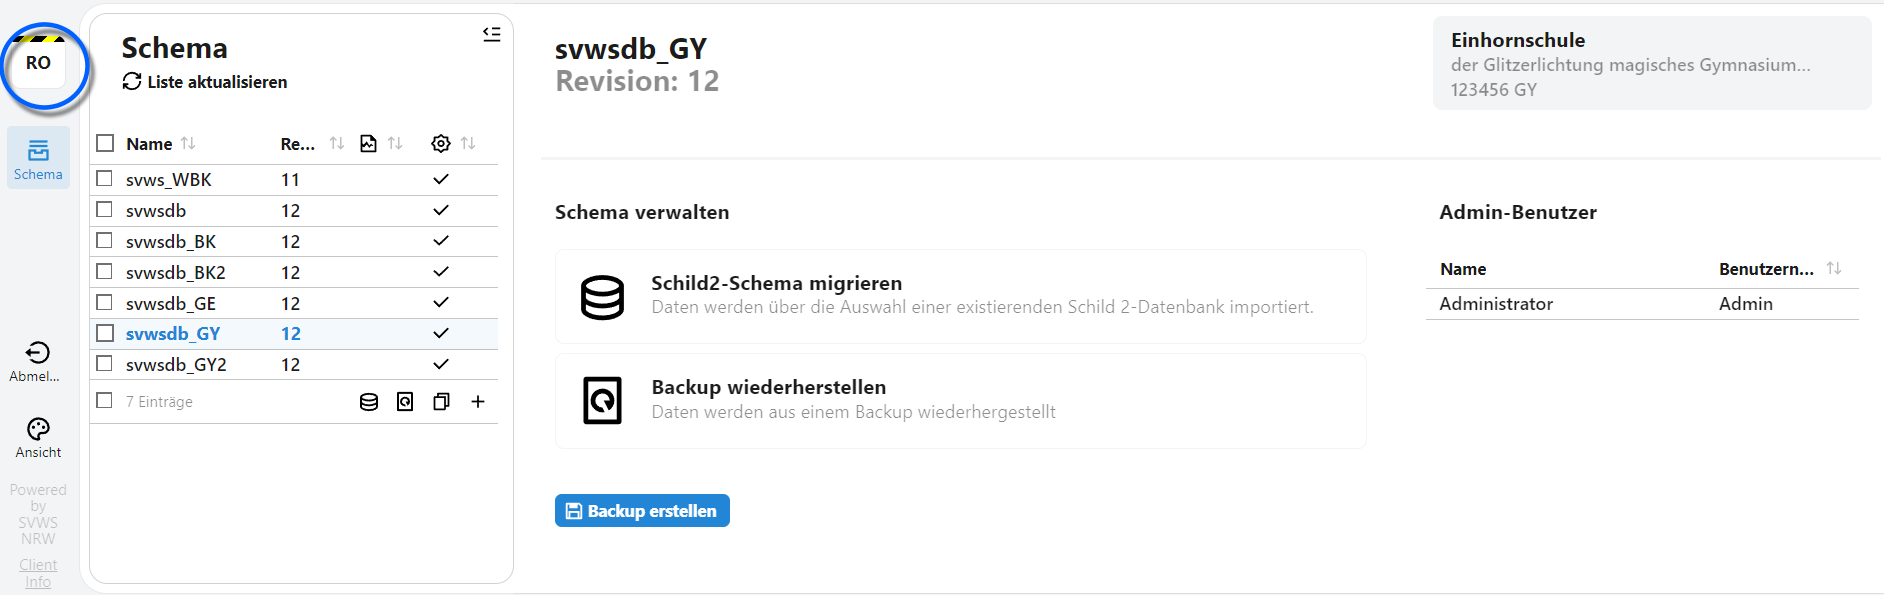
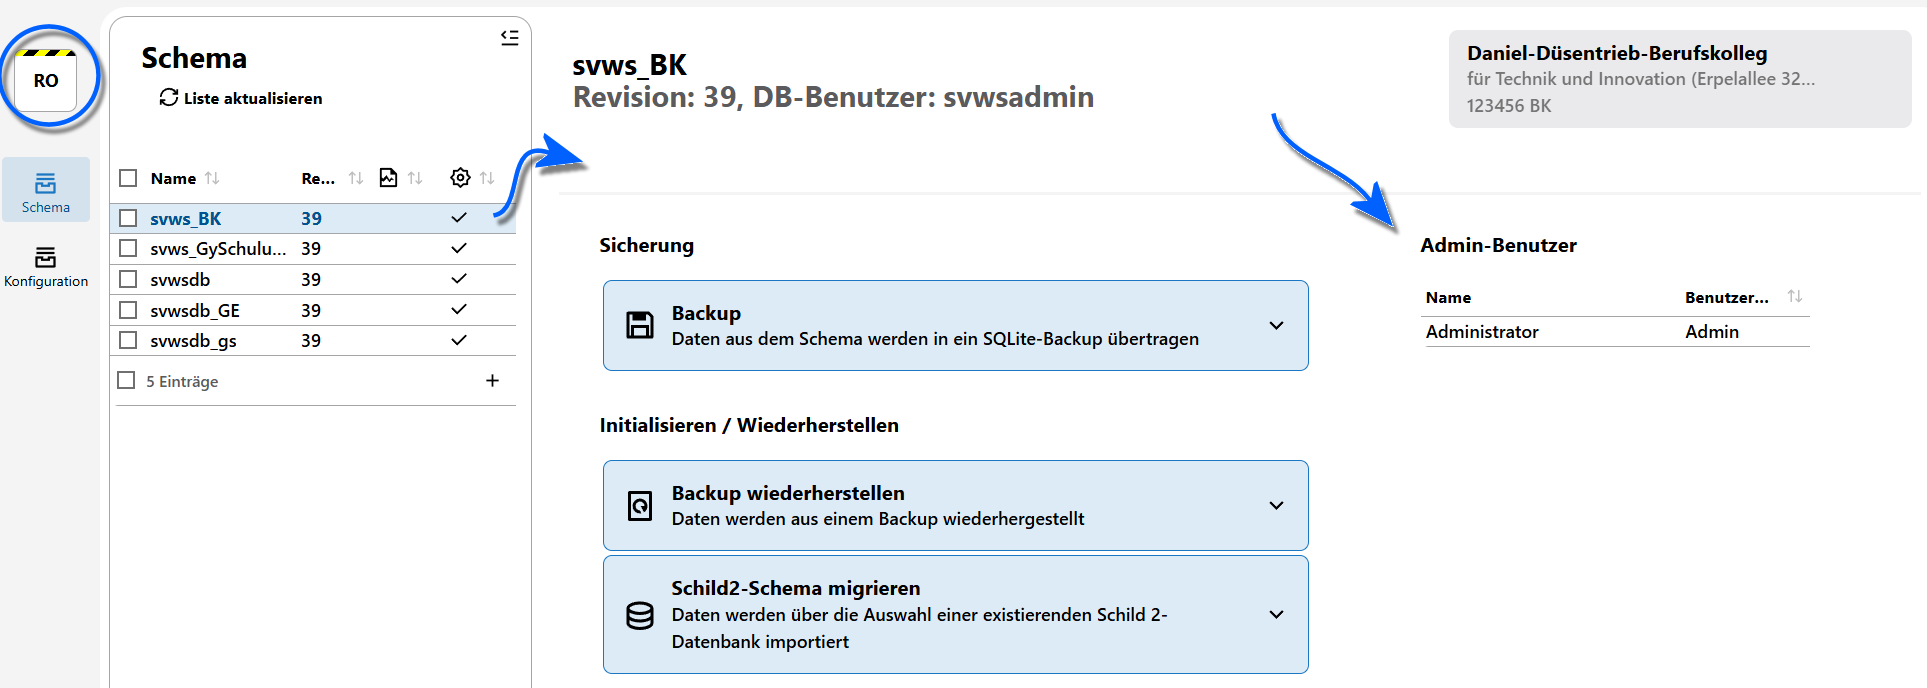
Überarbeitung Adminclient

diff --git a/adminclient/apps/schemata/index.md b/adminclient/apps/schemata/index.md
@@ -6,13 +6,8 @@ Im Bereich **Schema** lassen sich die auf dieser MariaDB laufenden Schemata ausw
 Hat man sich mit einem Schema-Admin und nicht mit dem MariaDB-root eingloggt, stehen nur die Schemata zur Verfügung, auf die dieser Schema-Admin Zugriff hat.
 :::
 
-Zu jedem Schema werden dann rechts der **Name** und und weiter rechts die **Daten der Schule** angezeigt. Weiterhin werden die **Admin-Benutzer** der jeweiligen Datenbank mit ihrem Namen und Benutzernamen aufgeführt. 
+Zu jedem Schema werden dann rechts der **Name** und und weiter rechts die **Daten der Schule** angezeigt.
 
-Im mittleren Bereich lässt sich ein bisheriges **SchILD-NRW-2-Schema** in dieses Schema **migrieren**. Dieser Vorgang überschreibt die im Schema aktuell vorliegenden Daten.
-
-Weiterhin lässt sich in das aktuelle Schema ein **Backup wiederherstellen**. Hierbei wird in eine .sqlite-Datei eingelesen und in die MariaDB migriert. Das aktuelle Schema wird hierbei mit dem Backup überschrieben.
-
-Sollte die Revision nicht dem aktuellen Stand entsprechen, kann über einen erscheinenden Schalter versucht werden, die Revision auf die aktuelle hochzuschreiben.
 
 ## Admin-Benutzer
 
@@ -20,7 +15,7 @@ Auf der rechten Seite werden alle Datenbank-Admin-Benutzer angezeigt, die in die
 
 ![Liste der Admin-Benutzer](./graphics/SVWS_adminclient_admins.png "Die Liste der gesetzten Admin-Benutzer in der Datenbank.")
 
-Hierbei handelt es sich um die "tatsächlichen Datenbanknutzer", nicht den Schema-Admin oder den Datenbank-root.
+Hierbei handelt es sich um die "tatsächlichen Datenbanknutzer" mit Administrationszugang, die in der Datenbank selbst angelegt sind, nicht den Schema-Admin oder den Datenbank-root, die dazu dienen, das Schema oder die ganze Datenbank zu verwalten.
 
 ::: info Nutzerverwaltung
 Diese Nutzer werden in der Datenbank selbst über Client-Anwendungen verwaltet.
@@ -28,36 +23,43 @@ Diese Nutzer werden in der Datenbank selbst über Client-Anwendungen verwaltet.
 
 ## Weitere Information zu einem Schema
 
-In der Schema-Übersicht links finden sich Angaben zur **Revision**, **Tainted** und **Config**.
+In der **Auswahlliste der Schemata** links finden sich Angaben zur **Revision**, **Tainted** und **Config**.
 
 * Die **Revision** kennzeichnet die technischen Struktur der Datenbank. Diese kann relevant sein, wenn externe Programme direkt auf die Datenbank zugreifen und diese Programme relativ zum Datenbankschema veralten. Über die Revision kann auf Kompatibilität geprüft werden, um Fehler zu vermeiden. Normalererweise liegt jedoch die API zwischen der Datenbank und dem zugreifenden Programm.
-* Ein Schema, das für die Entwicklung und zum Testen neuer Features gedacht ist, kann als  **Tainted** oder **Verschmutzt** markiert werden, damit dieses mit ihren Datenbanken nicht im echten Produktivbedtrieb zum Einsatz kommt.
+* Ein Schema, das für die Entwicklung und zum Testen neuer Features gedacht ist, kann als  **Tainted** oder **Verschmutzt** markiert werden, damit dieses mit ihren Datenbanken nicht im echten Produktivbedtrieb zum Einsatz kommt. Dies sollte im Produktivbetrieb an Schulen nicht vorkommen.
 * Weiterhin ist es möglich, dass sich auf der MariaDB Schemata befinden, die aber nicht zum SVWS-Server gehören. Diese werden dann als nicht zur **Config** des SVWS-Servers gehörend markiert und werden von diesem bezüglich SVWS-Server und SVWS-Client ignoriert. Ein Beispiel könnte etwa ein Stundenplanprogramm eines anderen Herstellers oder die Datenbank der kommunalen Führerscheinstelle sein.
 
 ## Operationen für Schemata
 
 ![Die Buttons unter einem Schema](./graphics/SVWS_adminclient_schemamangement.png "Wählen Sie ein Schema und legen Sie mit dem + ein ein neues Schema an.")
 
-
-*Die Schaltflächen der Schemaverwaltung.*
-
 Das **+** legt ein neues, leeres Schema an, in das im Anschluss migriert, Backup eingespielt und so weiter werden kann.
 
 Über die **Checkboxen ☑** lassen sich eine Schema oder mehrere Schemata anwählen und über einen dann darunter auftauchenden **Mülleimer 🗑** löschen.
 
-Über **Backup** lässt sich eine .sqlite-Datei abspeichern. Diese Dateien lassen sich über **Backup wiederherstellen** wieder in das gewählte Schema einlesen.
-
 ## Datenbank-Migration
-Klickt man auf **SchILD2-Schema migrieren**, öffnet sich der Dialog zur Auswahl von *Quelle* und *Ziel*:
 
-![Migration einer Datenbank aus Acess, MySQL, Maria DB, MSSQL](./graphics/SVWS_adminclient_migration.png "Migration einer Datenbank aus MS Access, MySQL, Maria DB, MSSQL: Geben Sie die Daten für Quelle und Ziel ein.")
-*Die Migrationsoptionen im Admin Client.*
+Sie können unter **Sicherung** ein SQLite-Backup als Datei aus der MariaDB herausschreiben. Wählen Sie das Feld an und klicken Sie auf `Backup starten`. Nachdem die Backup-Datei generiert wurde, können Sie einen Speicherort auswählen.
 
-Hierbei besteht die Auswahl aus den Quellen *MS Access*, *MySQL*, *MariaDB*, *MSSQL* und es sind die Daten einzugeben, um die Quelldatenbanken zu erreichen und das intendierte Ziel, das nun neu angelegt wird.
+Die Datei wird nach dem Format 
 
-Hier im Beispiel wird ein Schema mit dem Namen "schildDB" einer fiktiven IP-Adresse abgerufen, um diese in in ein "svwsdb_FS" genanntes Schema zu migrieren. Hier wird das *_FS* angehängt, um kenntlich zu machen, dass es sich um eine Förderschule handelt.
+`SchemaName_YYYYMMDD_HHNN.sqlite` erstellt, also zum Beispiel `svwsdbBK_20250530_0938.sqlite`.
 
-Bei einer Migration aus SchILDzentral ist eine *Schulnummer* zu übergeben.
+Entsprechend können Sie unter **Initialisieren/Wiederherstellen** eine solche SQLlite-Datei in das gewählte Schema einlesen. Hierbei werden eventuell im Schema existierende Daten überschrieben. Wählen Sie nach einem Klick auf **Backup wiederherstellen** Ihre Datei aus.
+
+Über **SchILD2-Schema migrieren** können Sie eine SchILD2-Datenbank auswählen.
+
+Hierbei wählen Sie im Dropdown-Menü
+* MySQL
+* MaridaDB
+* MSSQL
+* MS Access (.mdb)
+
+Bei MS Access wählen Sie die .mdb-Datei an, bei den anderen Optionen müssen Sie den *Host*, unter dem die DB zu erreichen ist, das *Datenbank-Schema* (den "Datenbanknamen") und einen *Datenbanknutzer* und das zugehörige *Passwort* angeben.
+
+>![Warning] Host und Datenbanknutzer
+>Achten Sie darauf, dass der SVWS-Server den Host auch erreichen kann, etwa über Grenzen eines virtuellen Servers hinweg.
+>Beim Datenbanknutzer handelt es sich um einen Zugang auf den Datenbankserver, nicht um einen Nutzer-Administrator innerhalb der Datenbank!
 
 ## Weiteres Datenbankmanagement für ITler
 

diff --git a/adminclient/client/index.md b/adminclient/client/index.md
@@ -1,6 +1,5 @@
 # Bedienkonzept des SVWS-Adminclient
 
-
 Der SVWS-Server kann sehr flexibel konfiguriert werden. Dies soll dazu führen, dass der Server an die vielen verschiedenen Systemumgebungen anpassen und je nach Bedarf skaliert werden kann.
 
 ## Administration in der eigenen Schule
@@ -23,7 +22,6 @@ Dazu bekommt jede Schule ein eigenes Schema, das auch einen eigenen Schema-Daten
 
 Die Verwaltung der verschiedenen Schemata kann auch mit dem Admin-Client geschehen. Ebenso stehen den Schulträgern hierzu auch API-Endpunkte zur Verfügung, die die Schema-Verwaltung über eine priviligierte API ermöglichen.
 
-
 ## Login und Übersicht
 Rufen Sie den _[Server]/admin_ auf, um den **Admin Client** zu starten.
 
@@ -41,15 +39,8 @@ Im Admin-Client selbst gibt es wieder **Apps**, die zu unterschiedlichen Adminis
 
 Derzeit finden sich Apps zum Schemata-Management und zur Konfiguration des SVWS-Servers.
 
-![Übersicht der Schemata im Admin Client.](./graphics/SVWS_adminclient.png "Übersicht der Schemata im Admin Client.")
+![Übersicht der Schemata im Admin Client.](./graphics/SVWS_adminclient.png "Übersicht der Schemata im Admin Client und die Optionen zu diesen Schamata.")
 
-Oben links zeigt **Ro** an, dass der Rootuser angemeldet wurde.
-
-Melden Sie sich unten links mit einem Klick auf **Abmelden** ab.
-
-Wie im Client gewohnt, lässt sich hier auch die **Ansicht** ändern.
-
-In der Kopfzeile finden sich die Apps für das **Schemata**-Management und weitere **Konfiguration** des SVWS-Servers.
-
+Oben links zeigt **Ro** an, dass der Rootuser angemeldet wurde. Melden Sie sich unten ganz links mit einem Klick auf **Abmelden** ab.
 
 
